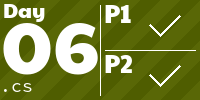
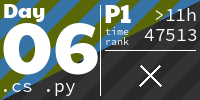
2025 Day06 part1

diff --git a/Solutions/2024/Day06/Day06 - part1.py b/Solutions/2024/Day06/Day06 - part1.py
@@ -1,0 +1,70 @@
+print('2024 - Day06 - Part 1')
+
+def find_first_occurrence(matrix, char):
+    for i, row in enumerate(matrix):
+        for j, element in enumerate(row):
+            if element == char:
+                return i, j
+    return None
+
+def count_character(matrix, char):
+    count = 0
+    for row in matrix:
+        count += row.count(char)
+    return count
+
+def move(position, direction):
+    row, col = position
+    dx, dy = directions[direction]
+    return row + dx, col + dy
+
+def get_character(matrix, position):
+    row, col = position
+    return matrix[row][col]
+
+def get_next_character(matrix, position, direction):
+    row, col = position
+    dx, dy = directions[direction]
+    return matrix[row + dx][col + dy]
+
+def set_character(matrix, position, char):
+    row, col = position
+    matrix[row][col] = char
+
+def inBounds(matrix, position, direction):
+    rows = len(matrix)
+    cols = len(matrix[0]) if rows > 0 else 0
+    row, col = position
+    dx, dy = directions[direction]
+    return 0 <= row + dx < rows and 0 <= col + dy < cols
+
+def turnRight(direction):
+    if direction == 3:
+        direction = -1
+    direction += 1
+    return direction
+
+directions = [(-1, 0), (0, 1), (1, 0), (0, -1)]
+
+with open("/workspaces/AdventOfCode/Solutions/2024/Day06/input.txt", "r") as file:
+    matrix = [list(line.strip()) for line in file]
+
+position = find_first_occurrence(matrix,  '^')
+direction = 0
+
+print(f'Start position: {position}')
+
+while inBounds(matrix, position, direction):   
+    set_character(matrix, position, 'X')
+    
+    nextChar = get_next_character(matrix, position, direction)
+
+    if nextChar == '#':
+        print(f'Hit # at {position} with direction {directions[direction]}')
+        direction = turnRight(direction)
+       
+    position = move(position, direction)
+    print(f'Current position: {position}')
+
+numberOfX = count_character(matrix, 'X') + 1
+print(f'Result: {numberOfX}')

diff --git a/README.md b/README.md
@@ -9,7 +9,7 @@ Data is stored in a private repository and can be loaded via
 
 <!-- AOC TILES BEGIN -->
 <h1 align="center">
-  2024 - 10 ⭐ - Smalltalk
+  2024 - 11 ⭐ - Smalltalk
 </h1>
 <a href="ProjectTemplate/SolverPart1.cs">
   <img src=".aoc_tiles/tiles/2024/01.png" width="161px">
@@ -25,6 +25,9 @@ Data is stored in a private repository and can be loaded via
 </a>
 <a href="Solutions/2022/Day05/InputReader.cs">
   <img src=".aoc_tiles/tiles/2024/05.png" width="161px">
+</a>
+<a href="Solutions/2022/AoC2022Tests/Day06Tests.cs">
+  <img src=".aoc_tiles/tiles/2024/06.png" width="161px">
 </a>
 <!-- AOC TILES END --> 
 <h1 align="center">
